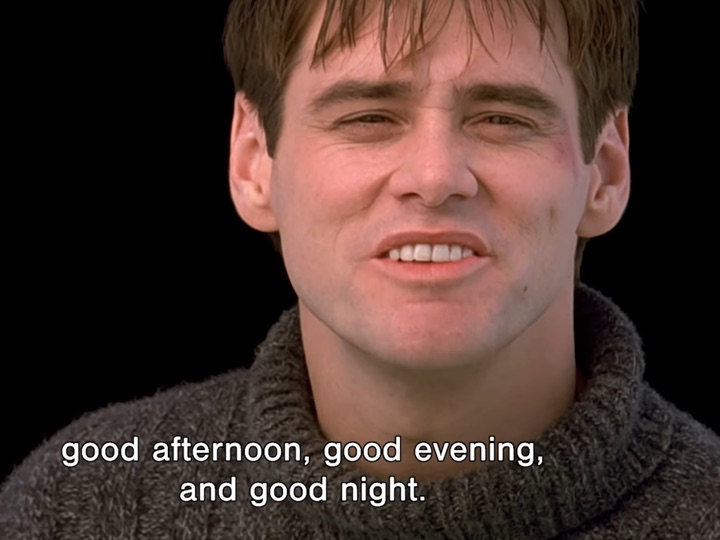
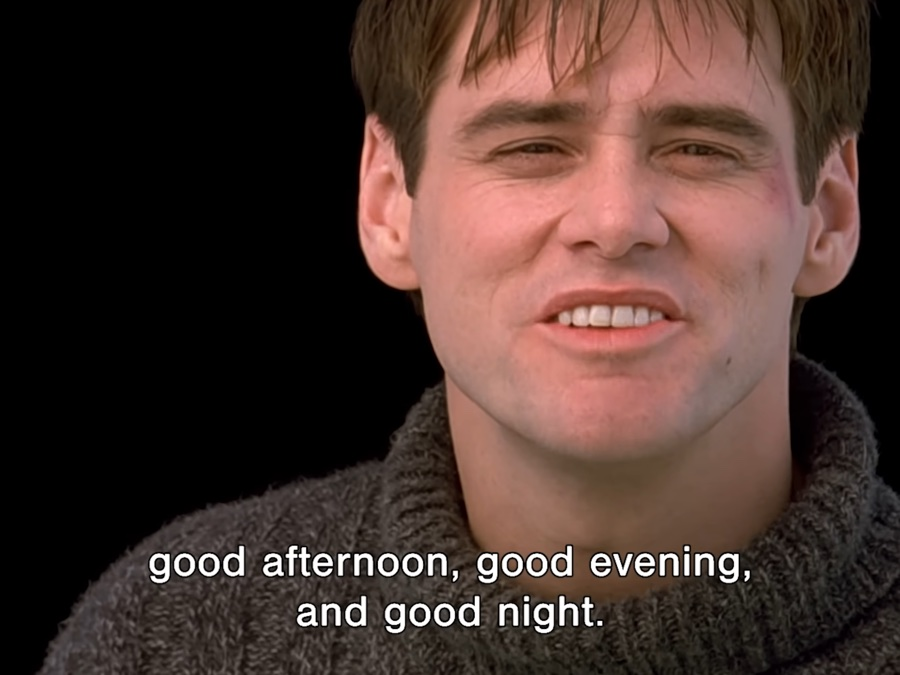
Landing: Truman bigger and further left, the subtitle centred and readable

diff --git a/landing/style.css b/landing/style.css
@@ -199,8 +199,8 @@ main > section { position: relative; }
 .way.flip .way-copy { order: 2; }
 .way.three { grid-template-columns: minmax(0, 6fr) minmax(0, 4fr) minmax(0, 2.3fr); gap: clamp(28px, 4vw, 56px); } /* the chat, its words, and a little GIF window on the right */
 .way.three .giftile { order: 3; align-self: center; }
-.way.lead-pic { grid-template-columns: minmax(0, 2.3fr) minmax(0, 4.6fr) minmax(0, 4fr); gap: clamp(28px, 4vw, 64px); } /* a small still on the left, then the window, then the words */
-.way.lead-pic .truman { order: 0; width: min(100%, 210px); justify-self: center; align-self: center; }
+.way.lead-pic { grid-template-columns: auto minmax(0, 4.2fr) minmax(0, 4fr); gap: clamp(28px, 4vw, 64px); } /* Truman's column is just Truman, so the window in the middle sits evenly between it and the words */ /* a small still on the left, then the window, then the words */
+.way.lead-pic .truman { order: 0; width: clamp(240px, 19vw, 290px); align-self: center; margin-left: calc(-1 * min(3vw, 56px)); } /* big enough to read the subtitle, out towards the margin */
 .way.lead-pic > figure.big { order: 1; }
 /* a bare GIF far right of the circle row, out in the page's side margin: only where that margin is wide enough */
 .gifbare { position: absolute; top: 4%; right: calc((100% - 100vw) / 2 + 3vw); width: clamp(140px, 10vw, 190px); height: auto; aspect-ratio: 240 / 298; object-fit: cover; border-radius: 10px; box-shadow: 0 14px 30px -12px rgba(0,0,0,0.35); display: none; z-index: 2; }

diff --git a/landing/index.html b/landing/index.html
@@ -9,7 +9,7 @@
 <link rel="preconnect" href="https://fonts.googleapis.com">
 <link rel="preconnect" href="https://fonts.gstatic.com" crossorigin>
 <link href="https://fonts.googleapis.com/css2?family=Yellowtail&family=Press+Start+2P&family=Inter+Tight:wght@400;500;600;700&family=Inter:wght@400;500;600&display=swap" rel="stylesheet">
-<link rel="stylesheet" href="style.css?v=20261028x">
+<link rel="stylesheet" href="style.css?v=20261028z">
 </head>
 <body>
 
@@ -137,7 +137,7 @@ print(total)</code></pre>
   </article>
 
   <article class="way flip lead-pic" data-colour="shamrock">
-    <figure class="w pic truman" data-pill="in case i don't see ya" data-pill-colour="#6FA8DC" style="--r:-2.5deg"><div class="tb"><i></i><i></i><i></i><span>the truman show</span></div><img src="assets/truman.jpg" alt="Truman smiling: good afternoon, good evening, and good night" width="720" height="540" loading="lazy" decoding="async"></figure>
+    <figure class="w pic truman" data-pill="in case i don't see ya" data-pill-colour="#6FA8DC" style="--r:-2.5deg"><div class="tb"><i></i><i></i><i></i><span>the truman show</span></div><img src="assets/truman.jpg" alt="Truman smiling: good afternoon, good evening, and good night" width="900" height="675" loading="lazy" decoding="async"></figure>
     <div class="way-copy">
       <p class="bubble" data-type="give it to me in point form"><span>give it to me in point form</span></p>
       <h3>hold fn⌃ and talk</h3>
